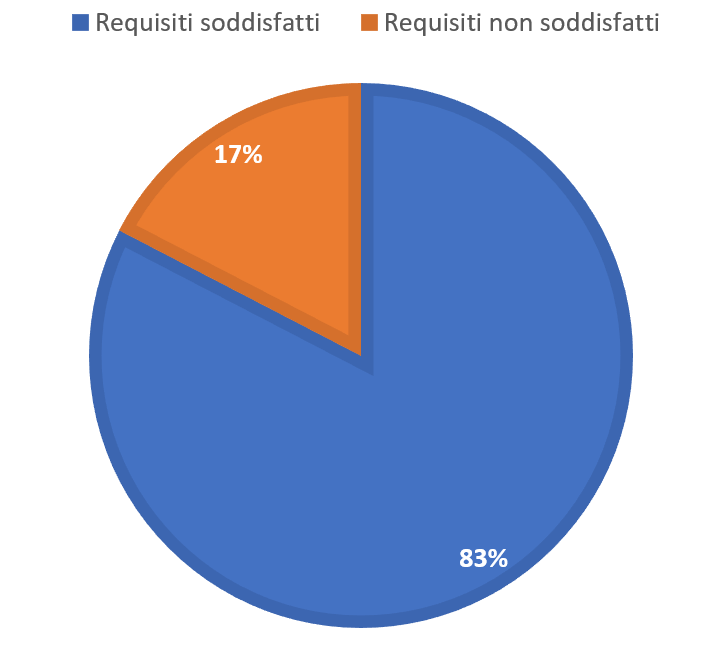
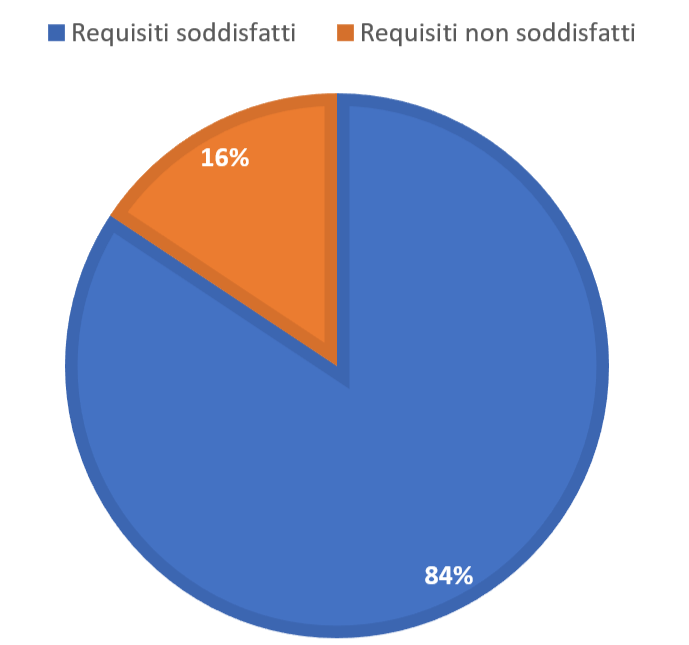
fix

diff --git a/DocEsterna/AllegatoTecnico/Section/RequisitiSoddisfatti.tex b/DocEsterna/AllegatoTecnico/Section/RequisitiSoddisfatti.tex
@@ -40,10 +40,15 @@ R1F7.2 & OB & Soddisfatto\\
 R1F7.2.1 & OB & Soddisfatto\\
 R1F7.3 & OB & Soddisfatto\\
 R3F7.3.1 & DE & Soddisfatto\\
+R3F7.3.2 & OB & Soddisfatto\\
+R3F7.3.3 & OB & Soddisfatto\\
 R1F7.4 &  OB & Soddisfatto\\
 R2F7.4.1 & DE & Soddisfatto\\
 R3F7.5 & OP & Soddisfatto\\
 R3F7.6 & OP & Soddisfatto\\
+R3F7.7 & OB & Soddisfatto\\
+R3F7.7.1 & OB & Soddisfatto\\
+R3F7.7.2 & OB & Soddisfatto\\
 R3F8 & OP & Non soddisfatto\\
 R3F9 & OP & Non soddisfatto\\
 R3F10 & OP & Non soddisfatto\\
@@ -72,7 +77,7 @@ R1F18 & OB & Soddisfatto\\
 }	
 \newpage
 \subsection{Grafici del soddisfacimento dei requisiti}
-Riguardo ai requisiti funzionali del prodotto siamo arrivati ad una copertura del 83\%; ossia sono stati soddisfatti 38 requisiti su 46.
+Riguardo ai requisiti funzionali del prodotto siamo arrivati ad una copertura del 84\%; ossia sono stati soddisfatti 43 requisiti su 51.
 \begin{figure}[hb]
 \includegraphics[width=7cm]{Images/RequisitiTotali}
 \centering
